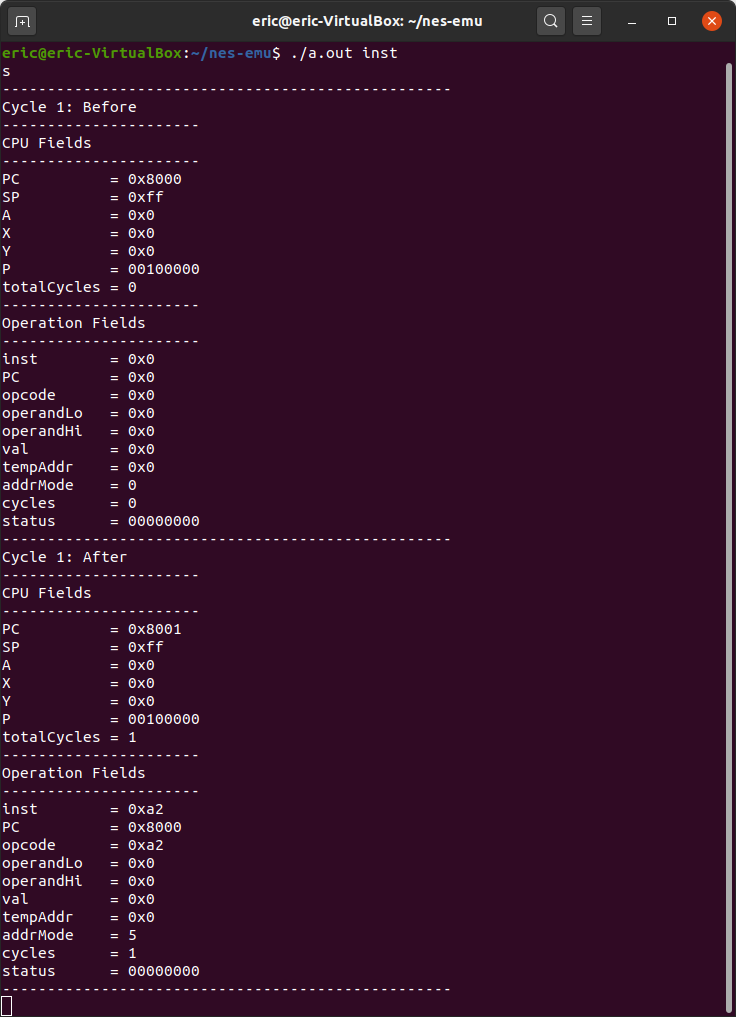
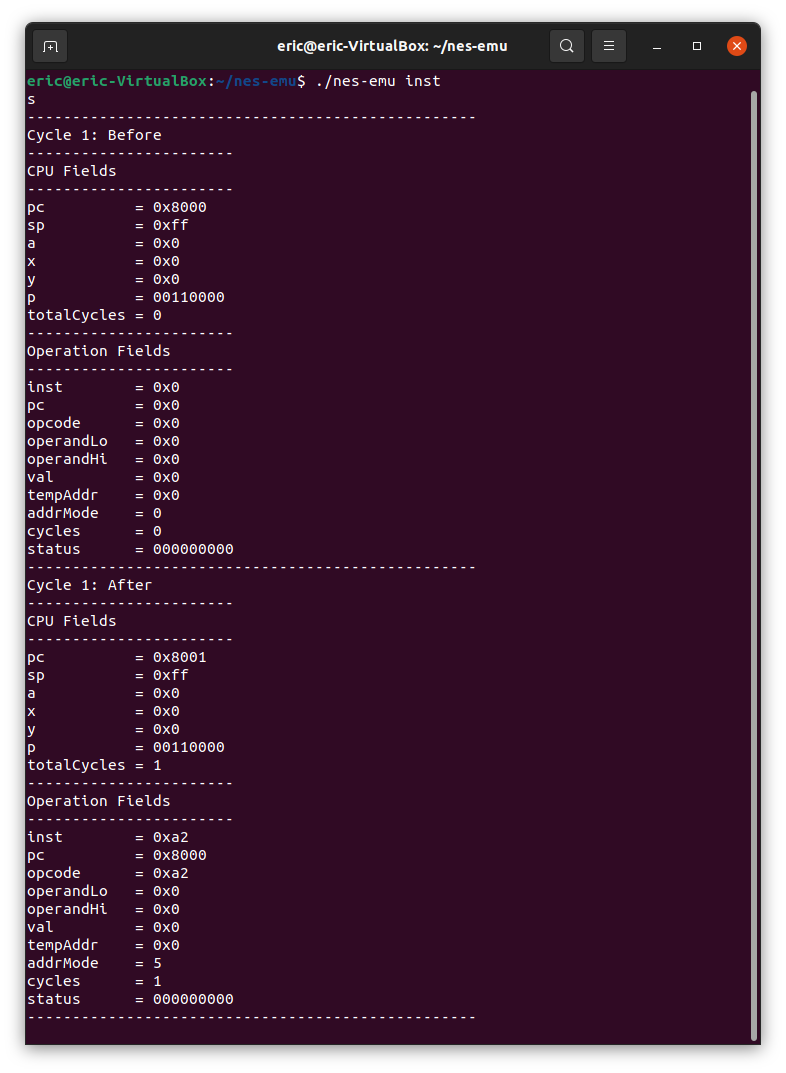
Update documentation

Changed region(s): [[0.0, 0.0, 1.0, 1.0]]

diff --git a/README.md b/README.md
@@ -2,7 +2,7 @@
 
 ## Introduction
 
-This is a cycle-accurate NES emulator, developed with the goal of learning more about emulators and computer architecture. Currently, all aspects of the CPU are complete except for interrupts and unofficial opcodes.
+This is a cycle-accurate NES emulator, developed with the goal of learning more about emulators and computer architecture. Currently, all aspects of the CPU are complete except for some unofficial opcodes.
 
 ## Installation
 
@@ -12,12 +12,18 @@ The emulator is written in C++ and compiled with Clang.
 
 ```
 make
-./a.out inst
+./nes-emu inst
 ```
 
 Edit the `inst` file to change the instructions that are to be executed. The instructions are represented in hexadecimal machine language and separated by line. Anything after `/`, `//`, or a space will be ignored, so that comments can be made.
 
 Enter `s` to step over the next cycle, `c` to continue until the end of the provided instructions, and `q` or any other character to exit.
+
+```
+./nes-emu
+```
+
+Alternatively, run the emulator without arguments to run unit tests in the test directory as well as the nestest.nes ROM.
 
 ## Screenshots
 
